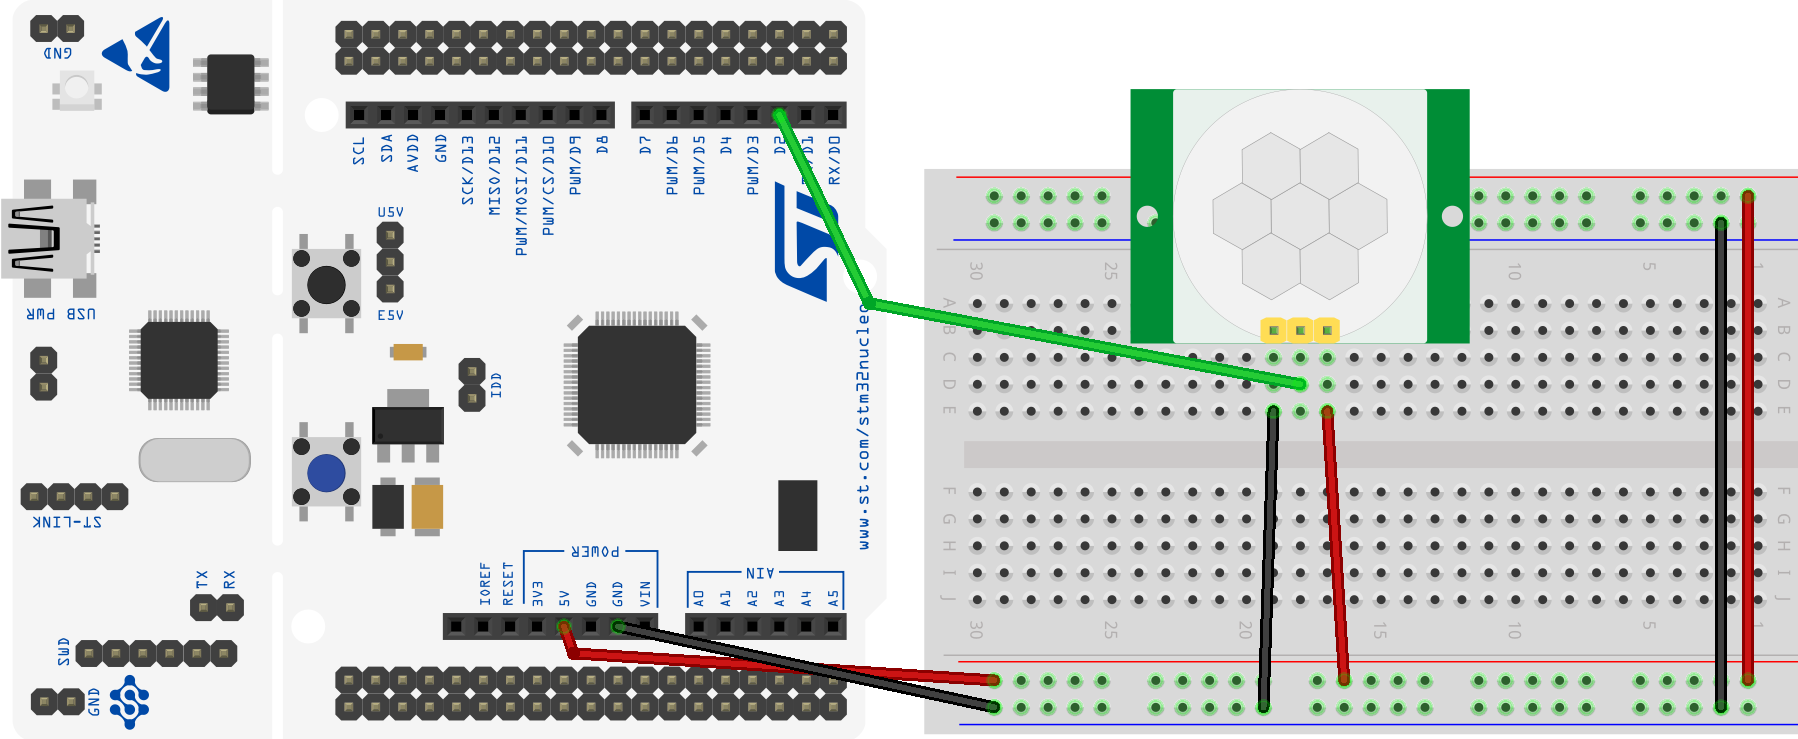
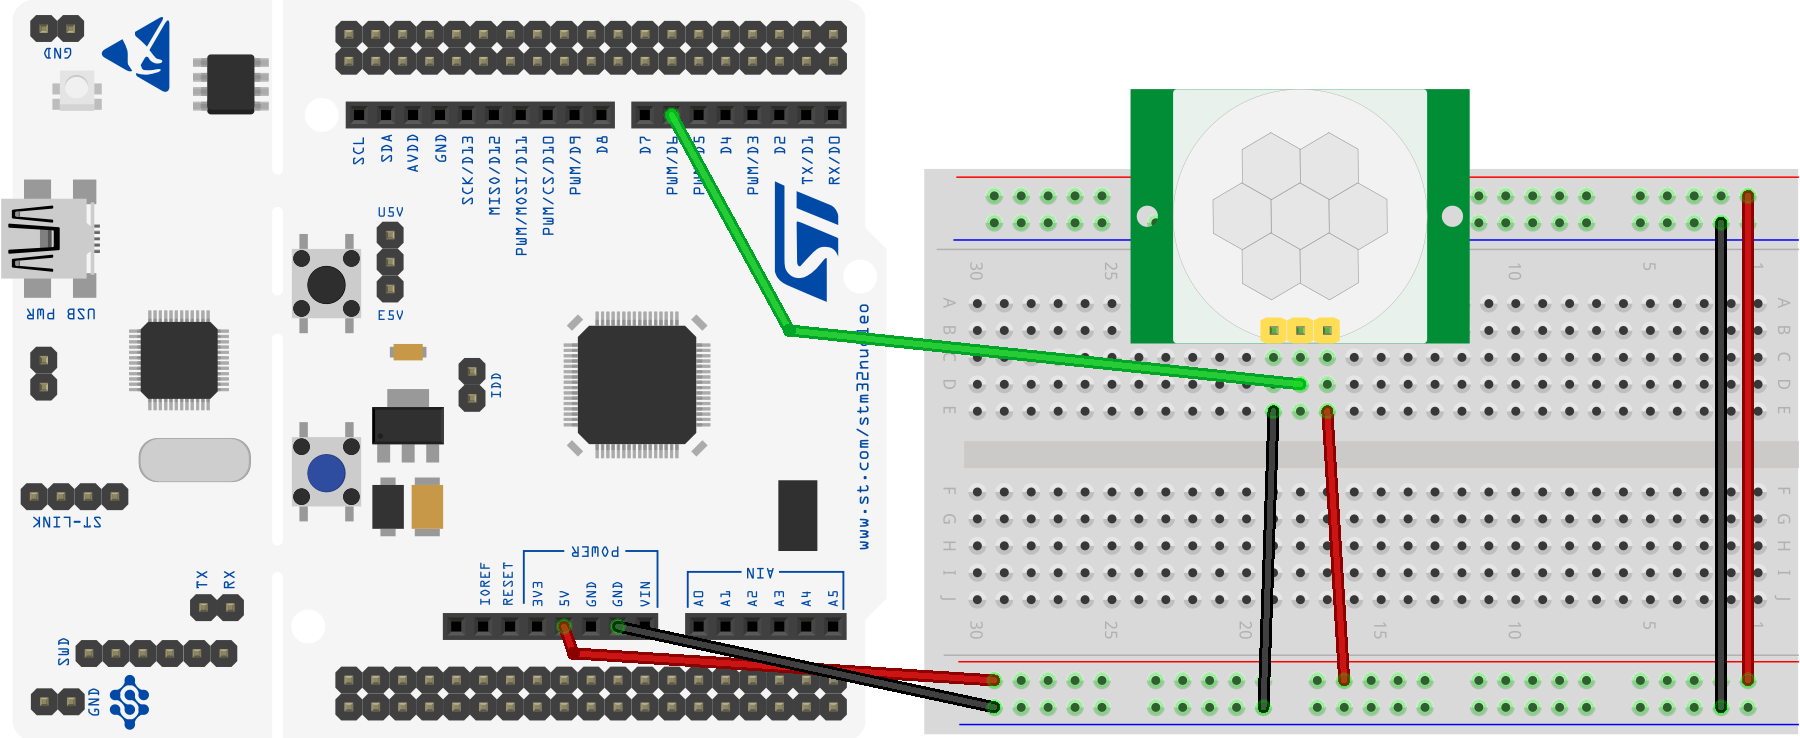
HAL version tested and working

diff --git a/port/stm32f4/include/stm32f4_pir_sensor.h b/port/stm32f4/include/stm32f4_pir_sensor.h
@@ -17,7 +17,7 @@
 
 /* Defines and macros --------------------------------------------------------*/
 // HW Nucleo-STM32F446RE:
-#define STM32F4_PIR_SENSOR_HOME_ALARM_GPIO_PORT GPIOA /*!< GPIO port of the PIR sensor in the Nucleo board */
+#define STM32F4_PIR_SENSOR_HOME_ALARM_GPIO_PORT GPIOB /*!< GPIO port of the PIR sensor in the Nucleo board */
 #define STM32F4_PIR_SENSOR_HOME_ALARM_GPIO_PIN GPIO_PIN_10     /*!< GPIO pin of the PIR sensor in the Nucleo board */
 #define STM32F4_PIR_SENSOR_HOME_ALARM_EXTI_IRQn EXTI15_10_IRQn /*!< EXTI IRQn of the PIR sensor in the Nucleo board */
 #define STM32F4_PIR_SENSOR_HOME_ALARM_IRQ_PRIO 1               /*!< IRQ priority of the PIR sensor in the Nucleo board */

diff --git a/port/stm32f4/src/stm32f4_led.c b/port/stm32f4/src/stm32f4_led.c
@@ -88,7 +88,7 @@ void port_led_timer_delay_ms(uint32_t led_id, uint32_t delay_ms)
         HAL_TIM_GenerateEvent(&handler_tim_led_home_alarm, TIM_EVENTSOURCE_UPDATE); // 6) Update generation: Re-inicializa el contador y actualiza los registros. IMPORTANTE que esté lo último
 
         // Enable the timer
-        HAL_TIM_Base_Start_IT(&handler_tim_led_home_alarm);
+        //HAL_TIM_Base_Start_IT(&handler_tim_led_home_alarm);
     }
 }
 

diff --git a/port/stm32f4/src/stm32f4_pir_sensor.c b/port/stm32f4/src/stm32f4_pir_sensor.c
@@ -80,7 +80,7 @@ void port_pir_sensor_gpio_setup(uint32_t pir_sensor_id)
     if (pir_sensor_id == PORT_PIR_SENSOR_HOME_ALARM_ID)
     {
         /* Enable the GPIO Clock */
-        __HAL_RCC_GPIOA_CLK_ENABLE();
+        __HAL_RCC_GPIOB_CLK_ENABLE();
 
         // Initialize the PIR sensor structure
         pir_sensor.Pin = STM32F4_PIR_SENSOR_HOME_ALARM_GPIO_PIN;

diff --git a/port/stm32f4/src/interr.c b/port/stm32f4/src/interr.c
@@ -48,6 +48,14 @@ void EXTI15_10_IRQHandler(void)
   {
     HAL_GPIO_EXTI_IRQHandler(STM32F4_BUTTON_HOME_ALARM_GPIO_PIN);
   }
+  else if (__HAL_GPIO_EXTI_GET_IT(STM32F4_PIR_SENSOR_HOME_ALARM_GPIO_PIN))
+  {
+    HAL_GPIO_EXTI_IRQHandler(STM32F4_PIR_SENSOR_HOME_ALARM_GPIO_PIN);
+  }
+  else
+  {
+    // Handle other EXTI lines if needed
+  }
 }
 
 /**

diff --git a/README.md b/README.md
@@ -17,7 +17,7 @@ The PIR sensor is connected to the pin `PA10`. The sensor is configured as an in
 | Parameter     | Value                    |
 | ------------- | ------------------------ |
 | Variable name | pir_sensor_home_alarm    |
-| Pin           | PA10 (D2 on Nucleo)      |
+| Pin           | PB10 (D6 on Nucleo)      |
 | Mode          | Input                    |
 | Pull up/ down | No push no pull          |
 | Edge          | Both: Rising and Falling |
